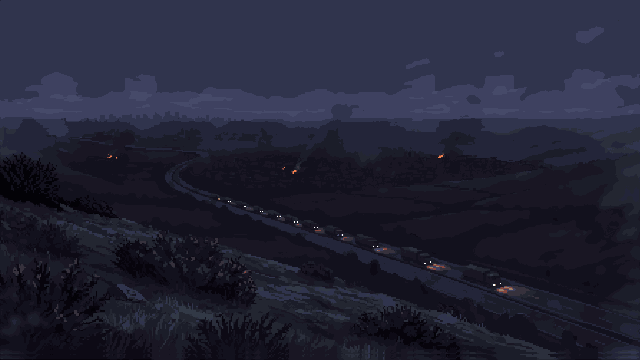
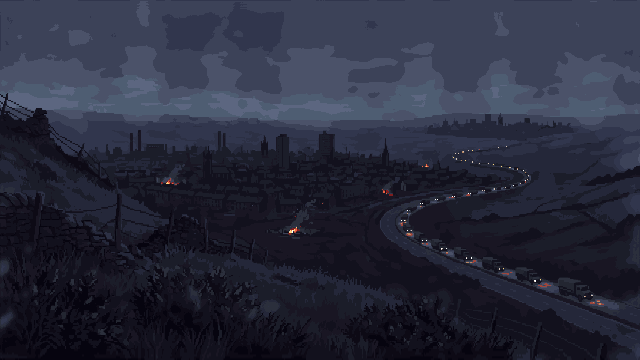
On the air: the city scene rerolled on a new seed

diff --git a/tools/make_air_manifest.py b/tools/make_air_manifest.py
@@ -21,9 +21,12 @@ SCENES = [
      "frequencies, a stub of pencil; at the edge, the dial of an army radio set glowing amber. Close and intimate, the "
      "dark all around."),
 ]
+# a scene rerolled: a new seed, so --force doesn't draw the same picture again (14 Oct: air_2)
+REROLL = {"air_2": 10}
 jobs = []
 for n, (out, style, what) in enumerate(SCENES):
-    jobs.append({"out": "art/intro/%s.png" % out, "width": 640, "height": 360, "no_background": False, "seed": 97100 + n,
+    jobs.append({"out": "art/intro/%s.png" % out, "width": 640, "height": 360, "no_background": False,
+                 "seed": 97100 + n + REROLL.get(out, 0),
                  "style_image": "res://art/places/%s.png" % style, "description": what + " " + TAIL,
                  "_where": "on the air, scene %d" % (n + 1), "endpoint": "generate-image-v2", "single": True,
                  "style_options": STYLE})
